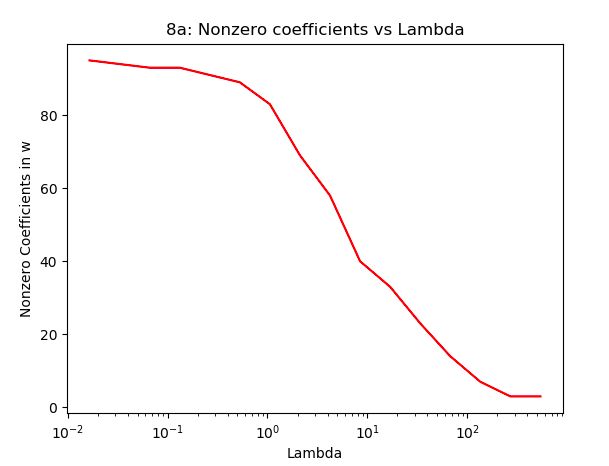
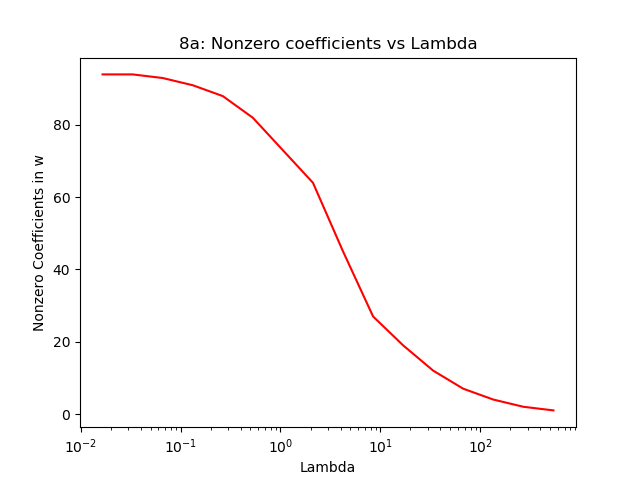
found bug in generating prev_w related to references

diff --git a/hw/hw2/lasso.py b/hw/hw2/lasso.py
@@ -115,14 +115,15 @@ n = 500
 d = 1000
 k = 100
 variance = 1
-(X, y) = generate_synthetic_data(n, d, k, variance, seed=3490853)
+(X, y) = generate_synthetic_data(n, d, k, variance, seed=3853)
 
 lam_max = min_null_lambda(X, y)
 lam_ratio = 1.5 # ratio to decrease lambda by during each iteration
-delta = 0.01 # threshold to stop iteration (search for better w)
+delta = 10e-4 # threshold to stop iteration (search for better w)
 
 current_lam = lam_max
 lam_vals = [lam_max]
+prev_w = None
 
 W = np.zeros((d, 1)) # we will store the resulting w for each lambda as a column in this matrix
 while np.count_nonzero(W[:, -1]) != d:
@@ -131,8 +132,10 @@ while np.count_nonzero(W[:, -1]) != d:
 
     print("Running using lambda = ", current_lam)
 
-    (w_new, b) = lasso_coordinate_descent(X, y, current_lam, delta=delta)
+    # Initialize current round of coordinate descent to w found in last round
+    (w_new, b) = lasso_coordinate_descent(X, y, w_init=prev_w, lam=current_lam, delta=delta)
     W = np.concatenate((W, np.expand_dims(w_new, axis=1)), axis=1)
+    prev_w = np.copy(w_new)
 
 plt.figure(1)
 plt.semilogx(lam_vals, np.count_nonzero(W, axis=0), 'r-')
@@ -179,7 +182,7 @@ lam_ratio = 2 # factor to decrease lambda by after each iteration
 
 current_lam = lam_max
 lam_vals = []
-delta = 0.01 # threshold used to determine when to stop searching for optimal w
+delta = 10e-5 # threshold used to determine when to stop searching for optimal w
 prev_w = None
 
 # matrix with each column the weights vector generated by the corresponding lambda
@@ -189,7 +192,7 @@ while current_lam >= 0.01:
 
     lam_vals.append(current_lam)
 
-    (w, b) = lasso_coordinate_descent(X_train, y_train, current_lam, prev_w, delta)
+    (w, b) = lasso_coordinate_descent(X_train, y_train, lam=current_lam, w_init=prev_w, delta=delta)
 
     if W is None:
         W = np.expand_dims(w, axis=1)
@@ -198,7 +201,7 @@ while current_lam >= 0.01:
 
     B.append(b)
 
-    prev_w = w
+    prev_w = np.copy(w)
     current_lam /= lam_ratio
 
 # Part a: Number non-zero entries vs lambda
@@ -252,20 +255,12 @@ plt.show()
 
 # Part d:
 
-(w30, _ ) = lasso_coordinate_descent(X_train, y_train, lam=30)
+(w30, _ ) = lasso_coordinate_descent(X_train, y_train, lam=30, delta=10e-5)
 
 var_names = df_train.columns[1:] # skip the first varname corresponding to response variable ViolentCrimesPerPop
 nonzero_coeffs = {w30[i]:var_names[i] for i in range(len(w30)) if not w30[i] == 0}
-#nonzero_coeffs = {w30[i]:i for i in range(len(w30)) if not w30[i] == 0}
-max_coeff = max(list(nonzero_coeffs.keys())) 
+max_coeff = max(list(nonzero_coeffs.keys()))
 min_coeff = min(list(nonzero_coeffs.keys())) 
 print(nonzero_coeffs)
 print("feature with largest coefficient: ", nonzero_coeffs[max_coeff], " , value: ", max_coeff)
 print("feature with smallest coefficient: ", nonzero_coeffs[min_coeff], " , value: ", min_coeff)
-
-
-# Part e:
-
-# Correlation does not imply causation. This could be an example of a third-variable
-# problem where the given variable has a high correlation with something that is
-# actually influencing the variable of interest (crime rate)

diff --git a/hw/hw2/logistic.py b/hw/hw2/logistic.py
@@ -285,8 +285,8 @@ sgd_grad_function = lambda X_batch, y_batch, x: grad_J(X_batch, y_batch, x[:-1],
 # 9di)
 
 plt.figure(5)
-plt.plot([J_function(X=X_train, y=Y_train, w=x[:-1], b=x[-1], lam=lam) for x in all_xs_sgd100[20:]])
-plt.plot([J_function(X=X_test, y=Y_test, w=x[:-1], b=x[-1], lam=lam) for x in all_xs_sgd100[20:]]) # use parameters learned from training dataset
+plt.plot([J_function(X=X_train, y=Y_train, w=x[:-1], b=x[-1], lam=lam) for x in all_xs_sgd100])
+plt.plot([J_function(X=X_test, y=Y_test, w=x[:-1], b=x[-1], lam=lam) for x in all_xs_sgd100]) # use parameters learned from training dataset
 plt.title('SGD Function Value at each iteration (batch_size = 100)')
 plt.ylabel('J(w,b)')
 plt.xlabel('Iteration Number')
